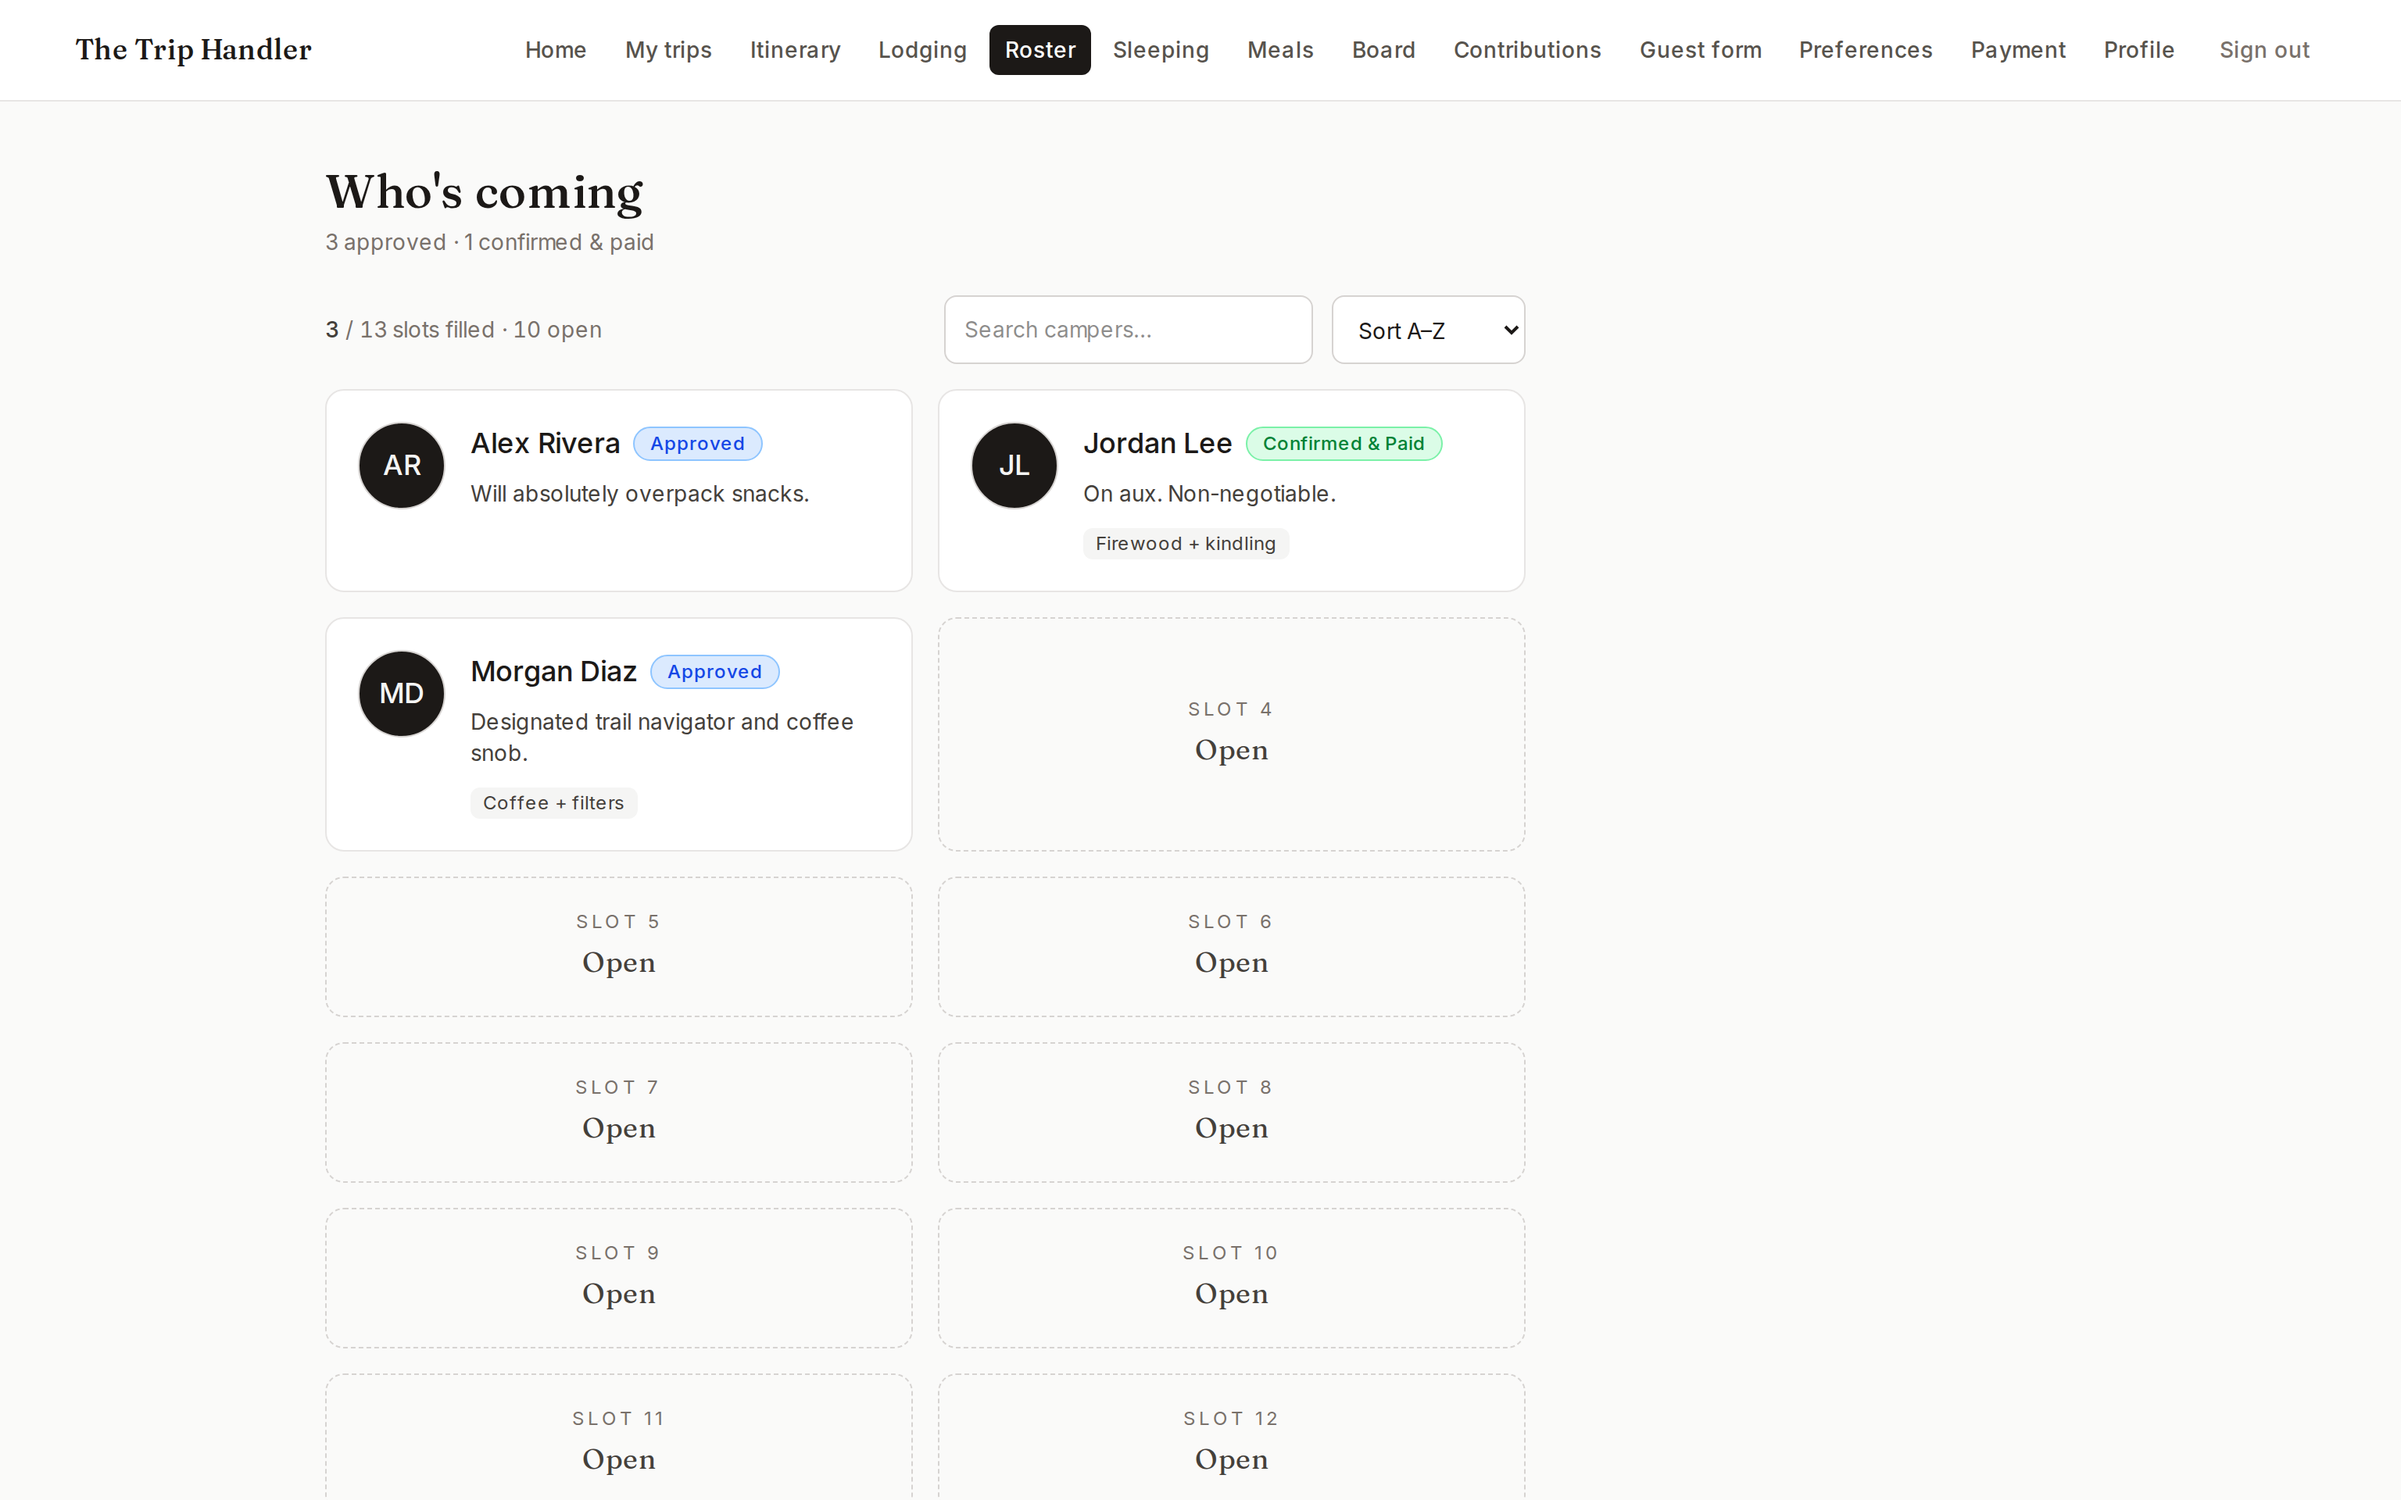
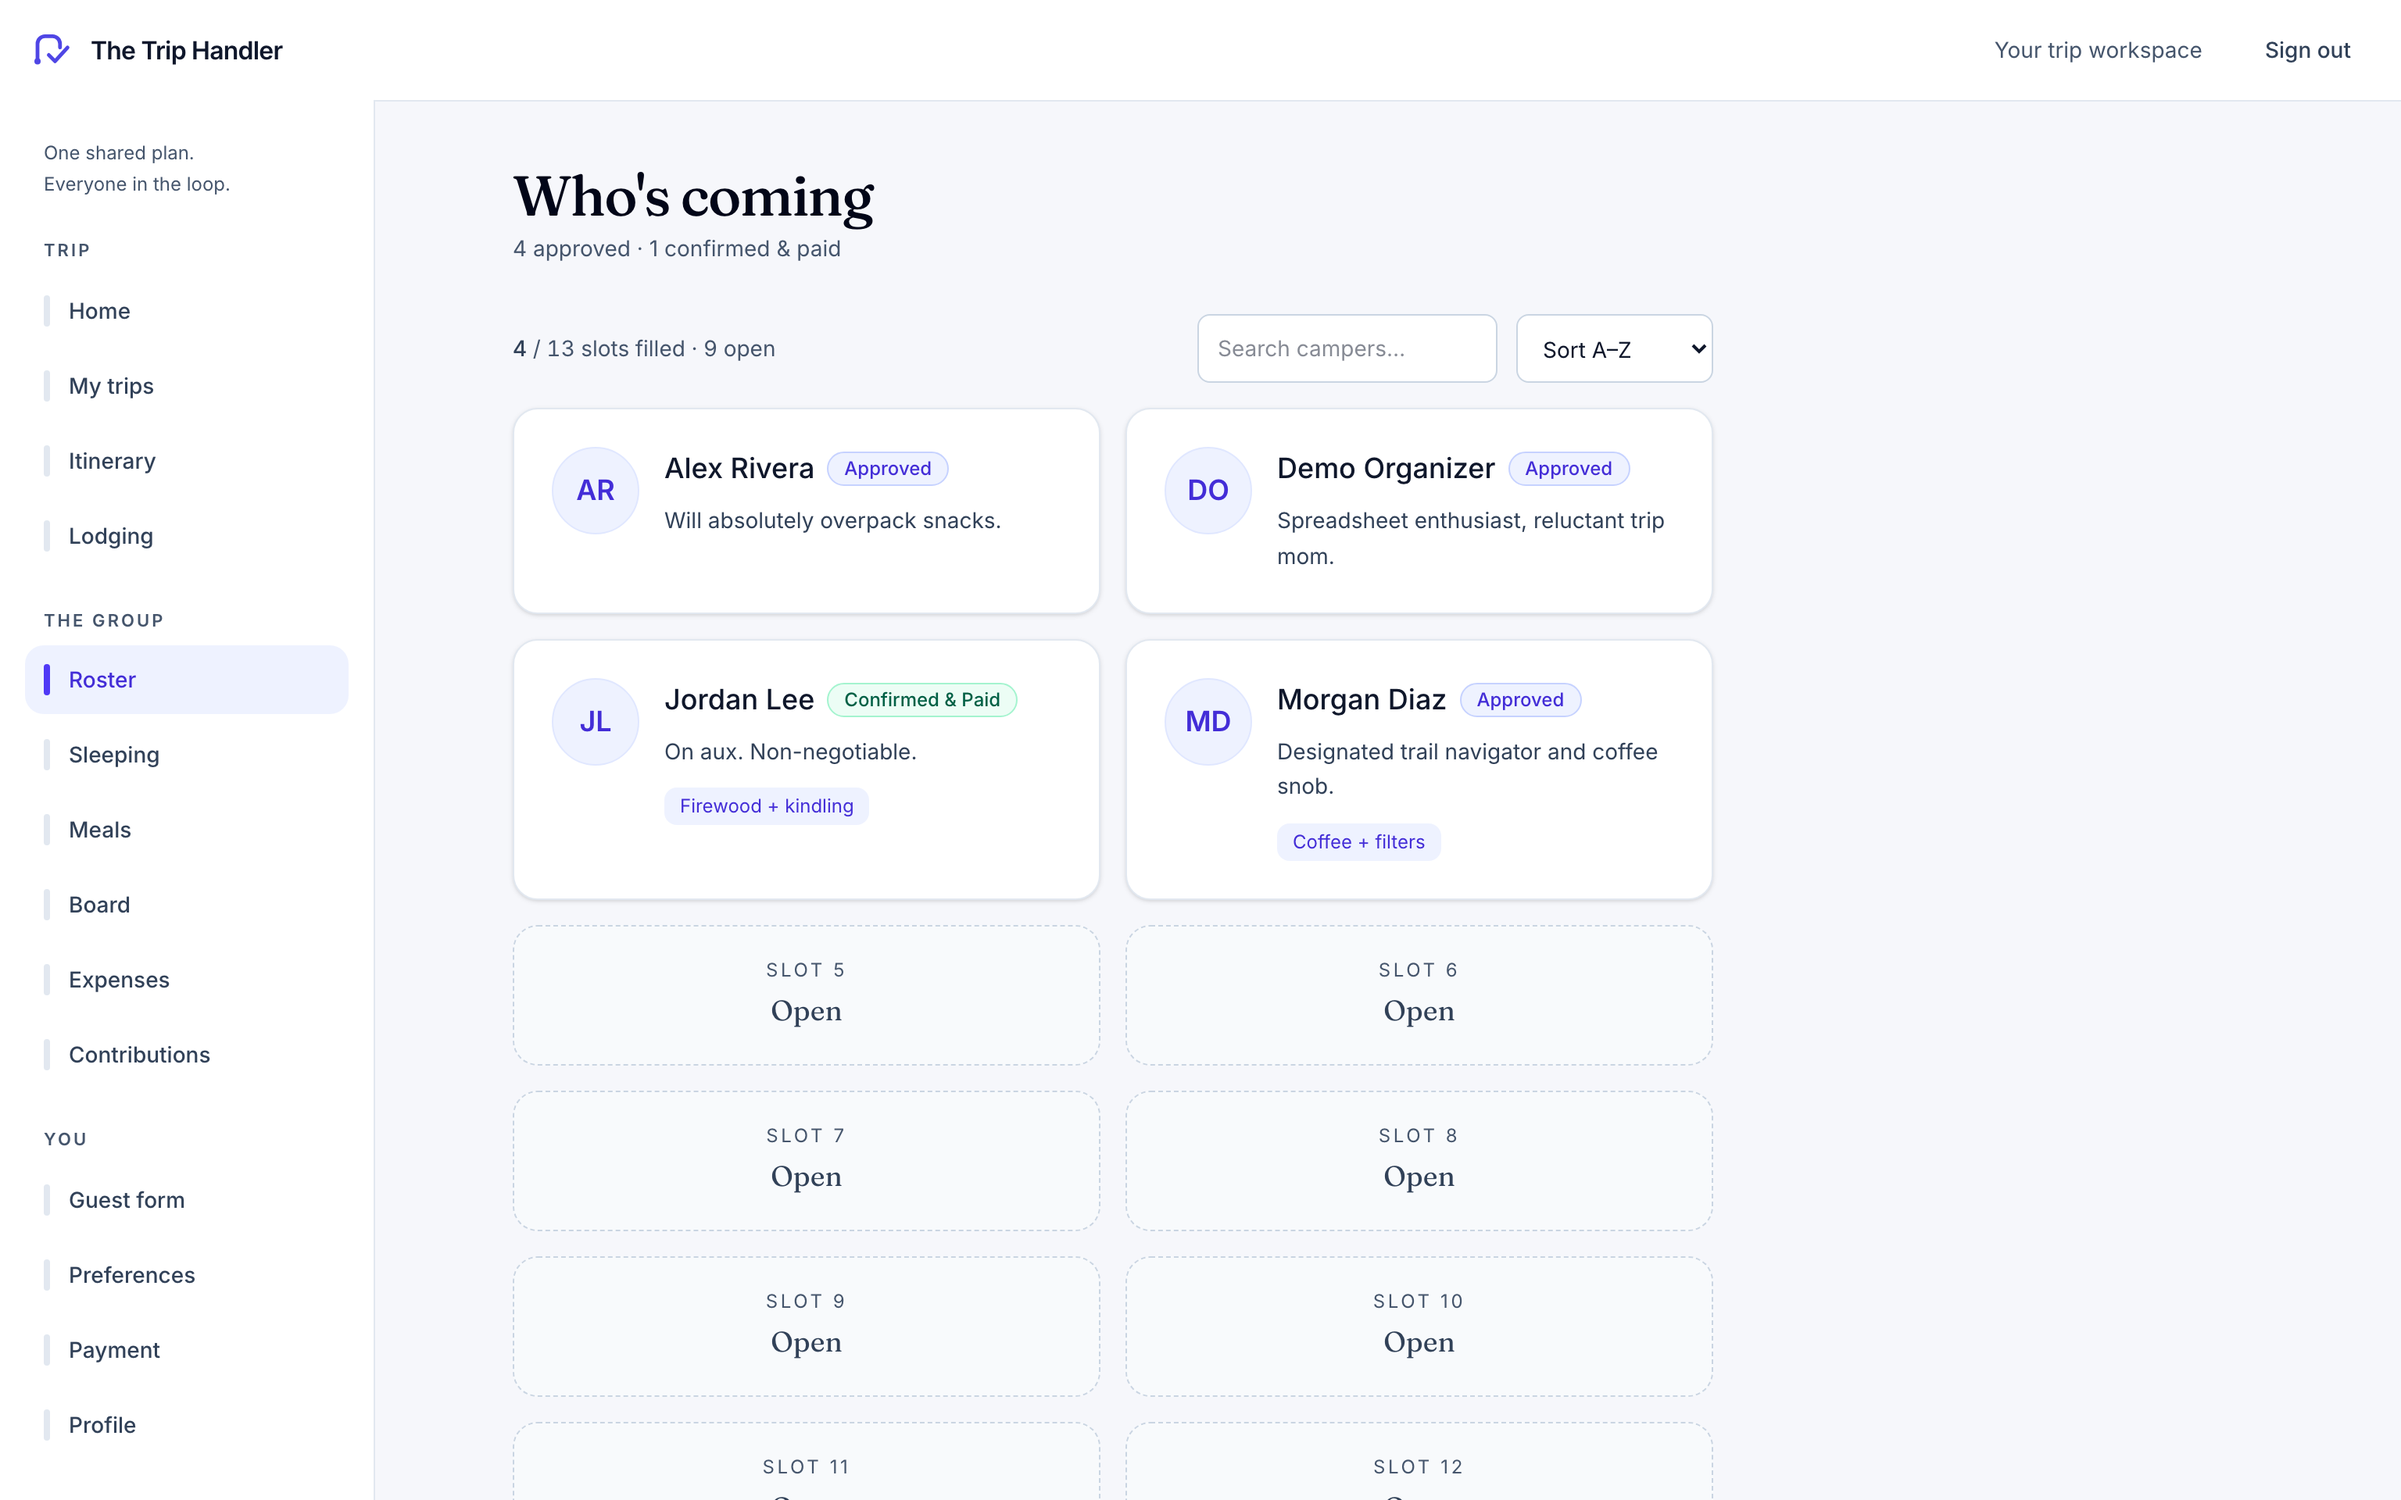
Refresh portfolio screenshots and document grouped navigation

diff --git a/README.md b/README.md
@@ -32,8 +32,8 @@ puts the difference in the diff.
 
 ### The same app on a phone
 
-Not a shrunk desktop layout — the navigation collapses from thirteen inline tabs
-into a grouped sheet, and every control is sized for a thumb.
+The desktop side rail becomes a grouped sheet on a phone, with controls sized
+for a thumb.
 
 | Dashboard | Sleeping | Navigation sheet |
 |---|---|---|
@@ -99,13 +99,17 @@ on dinner from a queue, checks the itinerary from a car. The desktop layout is
 where an organizer sits down to approve applicants and set pricing. Both are
 first-class, and every screen is built to work at 320px and at 1536px.
 
-**Navigation adapts to the space it has.** The member area has thirteen
-destinations. On a wide screen they sit inline as a single row of tabs. Below
-that, the header collapses to the name of the page you're on plus one control
+**A shared visual identity.** Public pages, account forms, member tools, and
+organizer screens use the same indigo accents, slate text, and white cards.
+The route-and-check logo appears in headers, app icons, and shared-link previews.
+
+**Navigation adapts to the space it has.** Wide screens show a persistent side
+rail with destinations grouped under *Trip*, *The group*, and *You*. Below
+1536px, the header shows the name of the page you're on plus one control
 that opens a grouped menu — *Trip*, *The group*, *You* — so the whole app is one
 tap away instead of hidden behind a sideways scroll. The menu closes on
-navigation (including the back button), closes on `Escape`, dims the page behind
-it, and locks background scrolling while open.
+navigation (including the back button), closes on `Escape` or a tap outside,
+dims the page behind it, and locks background scrolling while open.
 
 **Touch targets are sized by pointer, not by width.** An iPad is 768px wide and
 still operated with a thumb, so a breakpoint is the wrong thing to key off.
@@ -442,7 +446,7 @@ device it broke on:
 | `phone-320` | 320px | The narrowest screen still in real use — layouts break here first. |
 | `phone-390` | 390px | The common modern phone. |
 | `tablet-768` | 768px | A touch device that is *not* phone-width — the case a width-only breakpoint gets wrong. |
-| `laptop-1280` | 1280px | Where the inline navigation does not fit and must collapse. |
+| `laptop-1280` | 1280px | A wide content area with the grouped navigation menu. |
 | `desktop-1536` | 1536px | The breakpoint boundary where it turns back on. |
 
 The phone and tablet projects use Playwright device descriptors rather than a
@@ -516,8 +520,8 @@ fits together.
 - Implemented the approval-gated UI (read-only mode for `PENDING` users) as a complement to — not a replacement for — server-side authorization.
 - Integrated Stripe Checkout end-to-end: server action creates the session, signed webhook records payment, status update gates the rest of the app.
 - Integrated Vercel Blob for file uploads and Resend for transactional emails covering all key status transitions.
-- Made the whole app responsive from 320px up, including a nav that collapses
-  from thirteen inline tabs to a grouped menu sheet, pointer-based touch target
+- Made the whole app responsive from 320px up, including a desktop side rail
+  that becomes a grouped menu sheet, pointer-based touch target
   sizing, and native mobile keyboard and autofill hints on every form.
 - Built a Playwright suite that proves it: both user journeys driven through a
   real browser at five viewports against seeded data, asserting no horizontal
